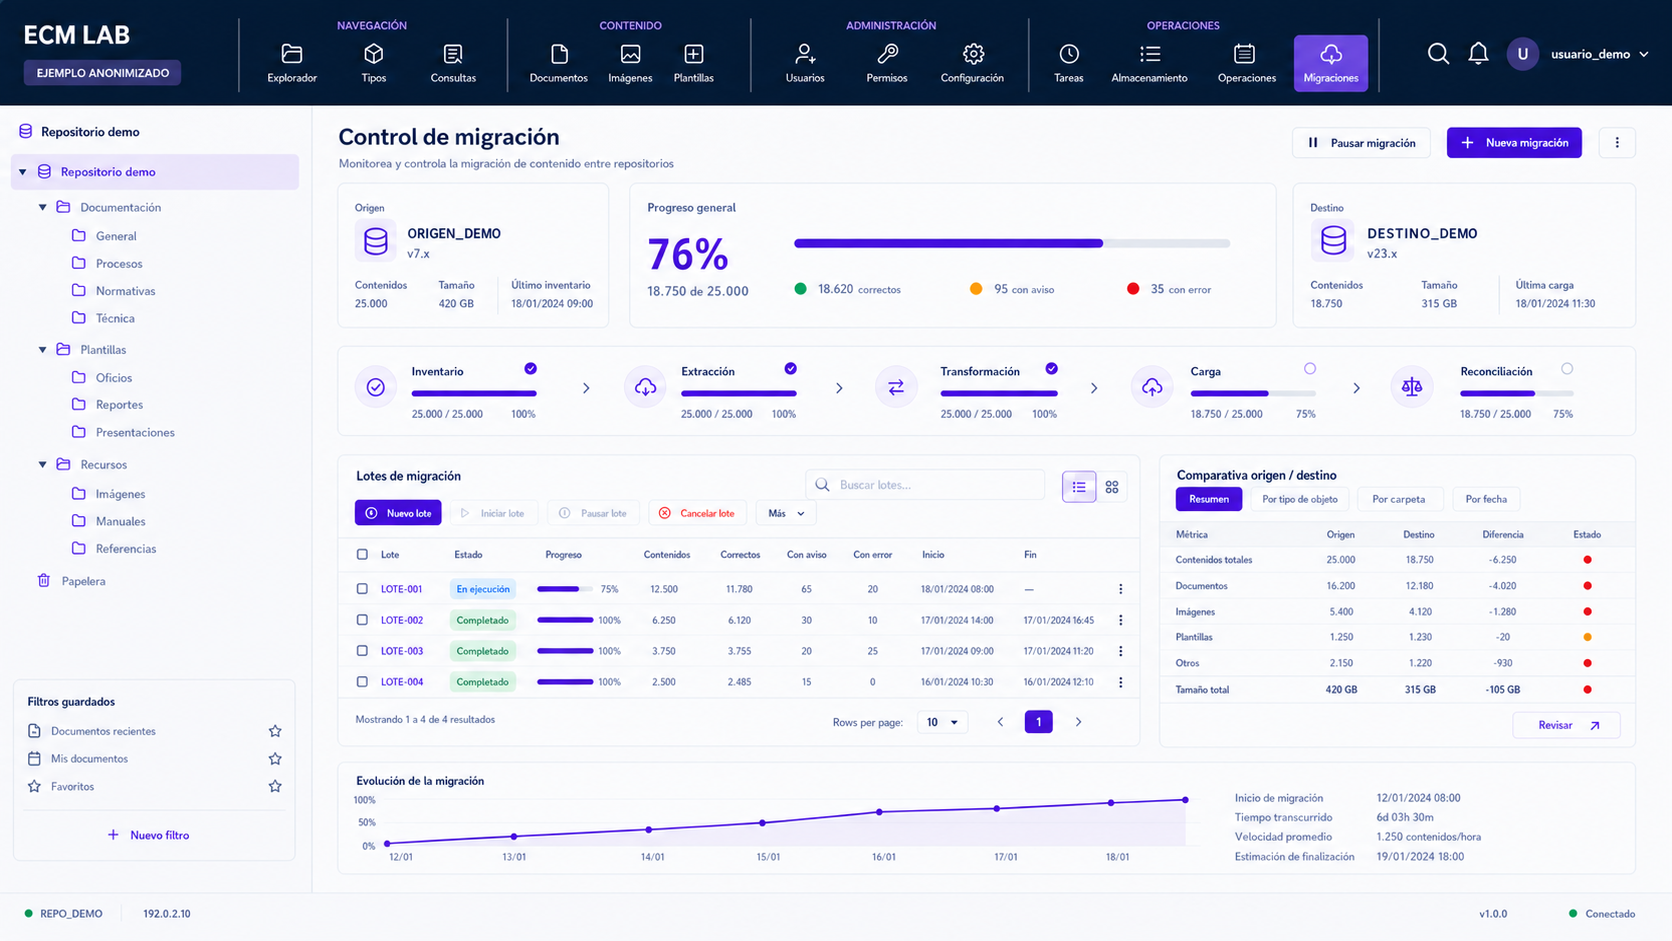
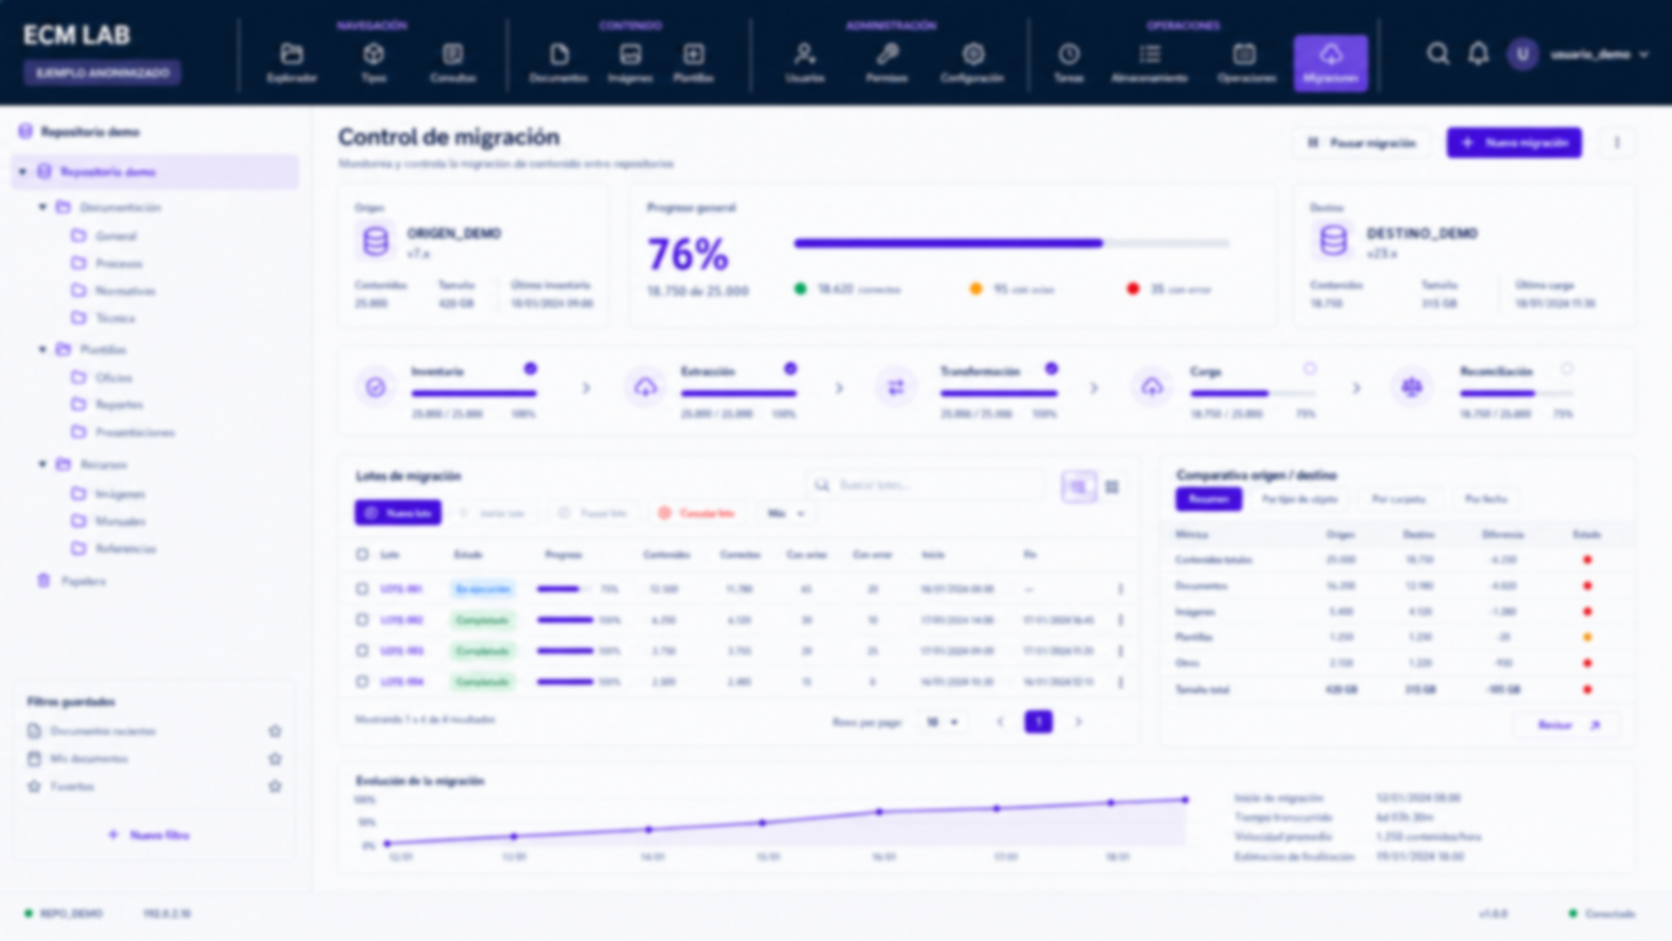
privacy: blur and protect application previews

diff --git a/index.html b/index.html
@@ -107,27 +107,27 @@
           <div class="app-carousel-viewport">
             <div class="app-carousel-track">
               <figure class="app-slide" aria-label="Ejemplo 1 de 4">
-                <a href="assets/app-examples/explorador-documental-anonimizado.png" target="_blank" rel="noreferrer" aria-label="Abrir ejemplo anonimizado del explorador documental">
-                  <img src="assets/app-examples/explorador-documental-anonimizado.png" alt="Recreación anonimizada de una aplicación interna para explorar y gestionar contenido documental" loading="lazy" width="1536" height="864">
-                </a>
+                <div class="app-image-frame">
+                  <img src="assets/app-examples/explorador-documental-anonimizado.png" alt="Recreación anonimizada de una aplicación interna para explorar y gestionar contenido documental" loading="lazy" width="1536" height="864" draggable="false">
+                </div>
                 <figcaption><span>01 · EXPLORADOR DOCUMENTAL</span><p>Ejemplo recreado y anonimizado de una interfaz para localizar, consultar y gestionar contenido del repositorio.</p></figcaption>
               </figure>
               <figure class="app-slide" aria-label="Ejemplo 2 de 4">
-                <a href="assets/app-examples/observabilidad-almacenamiento-anonimizada.png" target="_blank" rel="noreferrer" aria-label="Abrir ejemplo anonimizado de observabilidad de almacenamiento">
-                  <img src="assets/app-examples/observabilidad-almacenamiento-anonimizada.png" alt="Recreación anonimizada de una aplicación interna para observar el almacenamiento documental" loading="lazy" width="1536" height="864">
-                </a>
+                <div class="app-image-frame">
+                  <img src="assets/app-examples/observabilidad-almacenamiento-anonimizada.png" alt="Recreación anonimizada de una aplicación interna para observar el almacenamiento documental" loading="lazy" width="1536" height="864" draggable="false">
+                </div>
                 <figcaption><span>02 · OBSERVABILIDAD DE ALMACENAMIENTO</span><p>Ejemplo recreado y anonimizado de un panel para analizar capacidad, distribución y uso del almacenamiento.</p></figcaption>
               </figure>
               <figure class="app-slide" aria-label="Ejemplo 3 de 4">
-                <a href="assets/app-examples/operaciones-masivas-anonimizadas.png" target="_blank" rel="noreferrer" aria-label="Abrir ejemplo anonimizado de operaciones masivas">
-                  <img src="assets/app-examples/operaciones-masivas-anonimizadas.png" alt="Recreación anonimizada de una aplicación interna para validar y ejecutar operaciones documentales masivas" loading="lazy" width="1536" height="864">
-                </a>
+                <div class="app-image-frame">
+                  <img src="assets/app-examples/operaciones-masivas-anonimizadas.png" alt="Recreación anonimizada de una aplicación interna para validar y ejecutar operaciones documentales masivas" loading="lazy" width="1536" height="864" draggable="false">
+                </div>
                 <figcaption><span>03 · OPERACIONES MASIVAS</span><p>Ejemplo recreado y anonimizado de una herramienta para importar, validar y ejecutar actualizaciones masivas con trazabilidad.</p></figcaption>
               </figure>
               <figure class="app-slide" aria-label="Ejemplo 4 de 4">
-                <a href="assets/app-examples/control-migracion-anonimizado.png" target="_blank" rel="noreferrer" aria-label="Abrir ejemplo anonimizado de control de migración">
-                  <img src="assets/app-examples/control-migracion-anonimizado.png" alt="Recreación anonimizada de una aplicación interna para controlar y reconciliar migraciones documentales" loading="lazy" width="1536" height="864">
-                </a>
+                <div class="app-image-frame">
+                  <img src="assets/app-examples/control-migracion-anonimizado.png" alt="Recreación anonimizada de una aplicación interna para controlar y reconciliar migraciones documentales" loading="lazy" width="1536" height="864" draggable="false">
+                </div>
                 <figcaption><span>04 · CONTROL DE MIGRACIÓN</span><p>Ejemplo recreado y anonimizado de un panel para seguir lotes, transformaciones y reconciliar origen y destino.</p></figcaption>
               </figure>
             </div>

diff --git a/css/styles.css b/css/styles.css
@@ -949,15 +949,17 @@ h2 {
   min-width: 0;
 }
 
-.app-slide > a {
+.app-image-frame {
   background: #f4f6fb;
   display: block;
   overflow: hidden;
   position: relative;
 }
 
-.app-slide > a::after {
-  background: linear-gradient(180deg, transparent 75%, rgba(9, 2, 15, 0.2));
+.app-image-frame::after {
+  background:
+    linear-gradient(180deg, rgba(88, 28, 135, 0.045), rgba(9, 2, 15, 0.18)),
+    rgba(19, 5, 29, 0.035);
   content: "";
   inset: 0;
   pointer-events: none;
@@ -965,17 +967,16 @@ h2 {
 }
 
 .app-slide img {
+  -webkit-user-drag: none;
   aspect-ratio: 16 / 9;
   display: block;
+  filter: blur(2px) saturate(0.82) contrast(0.94);
   height: auto;
   object-fit: cover;
-  transition: transform 500ms ease;
+  pointer-events: none;
+  transform: scale(1.018);
+  user-select: none;
   width: 100%;
-}
-
-.app-slide > a:hover img,
-.app-slide > a:focus-visible img {
-  transform: scale(1.012);
 }
 
 .app-slide figcaption {

diff --git a/js/main.js b/js/main.js
@@ -212,6 +212,11 @@
     showSlide(0);
   });
 
+  document.querySelectorAll(".app-image-frame img").forEach(function (image) {
+    image.addEventListener("contextmenu", function (event) { event.preventDefault(); });
+    image.addEventListener("dragstart", function (event) { event.preventDefault(); });
+  });
+
   window.addEventListener("scroll", requestScrollUpdate, { passive: true });
   window.addEventListener("resize", function () {
     if (window.innerWidth > 980) closeMenu();
